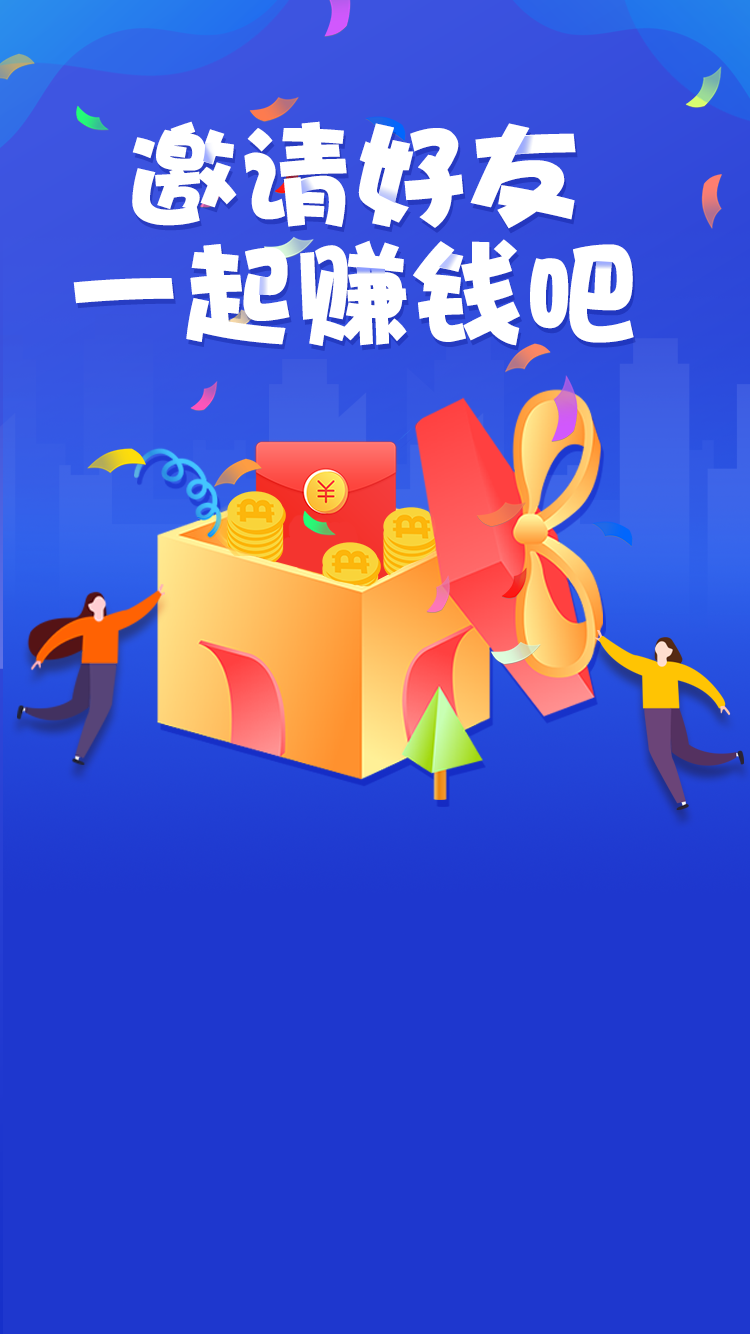
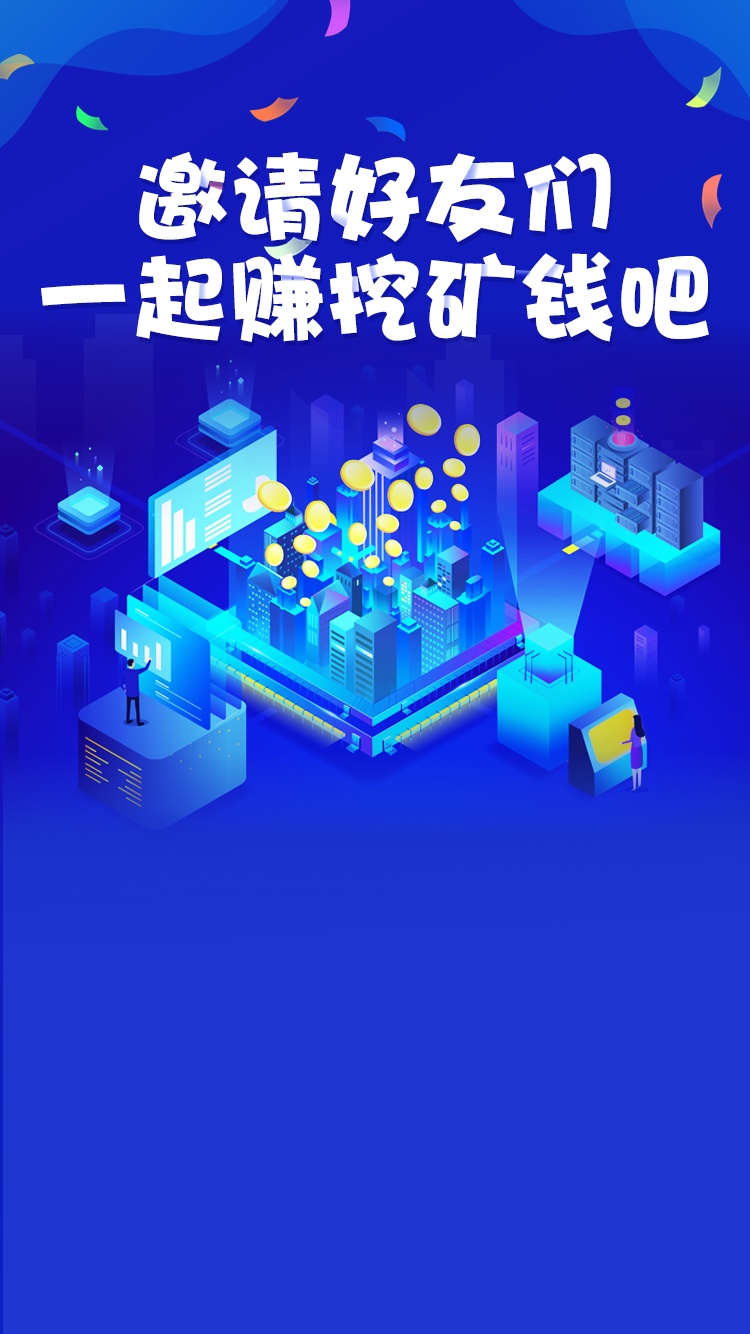
修改邀请好友背景图片及弹出提示样式。

diff --git a/superlock-mobile/src/components/mine/invite-prompt/invite-prompt.less b/superlock-mobile/src/components/mine/invite-prompt/invite-prompt.less
@@ -19,7 +19,7 @@
 
                 h1 {
                     .font-styles(1.5rem, normal, 2, #8fa2c6, left);
-                    letter-spacing: 0.5rem;
+                    letter-spacing: 0.25rem;
                 }
 
                 p {
